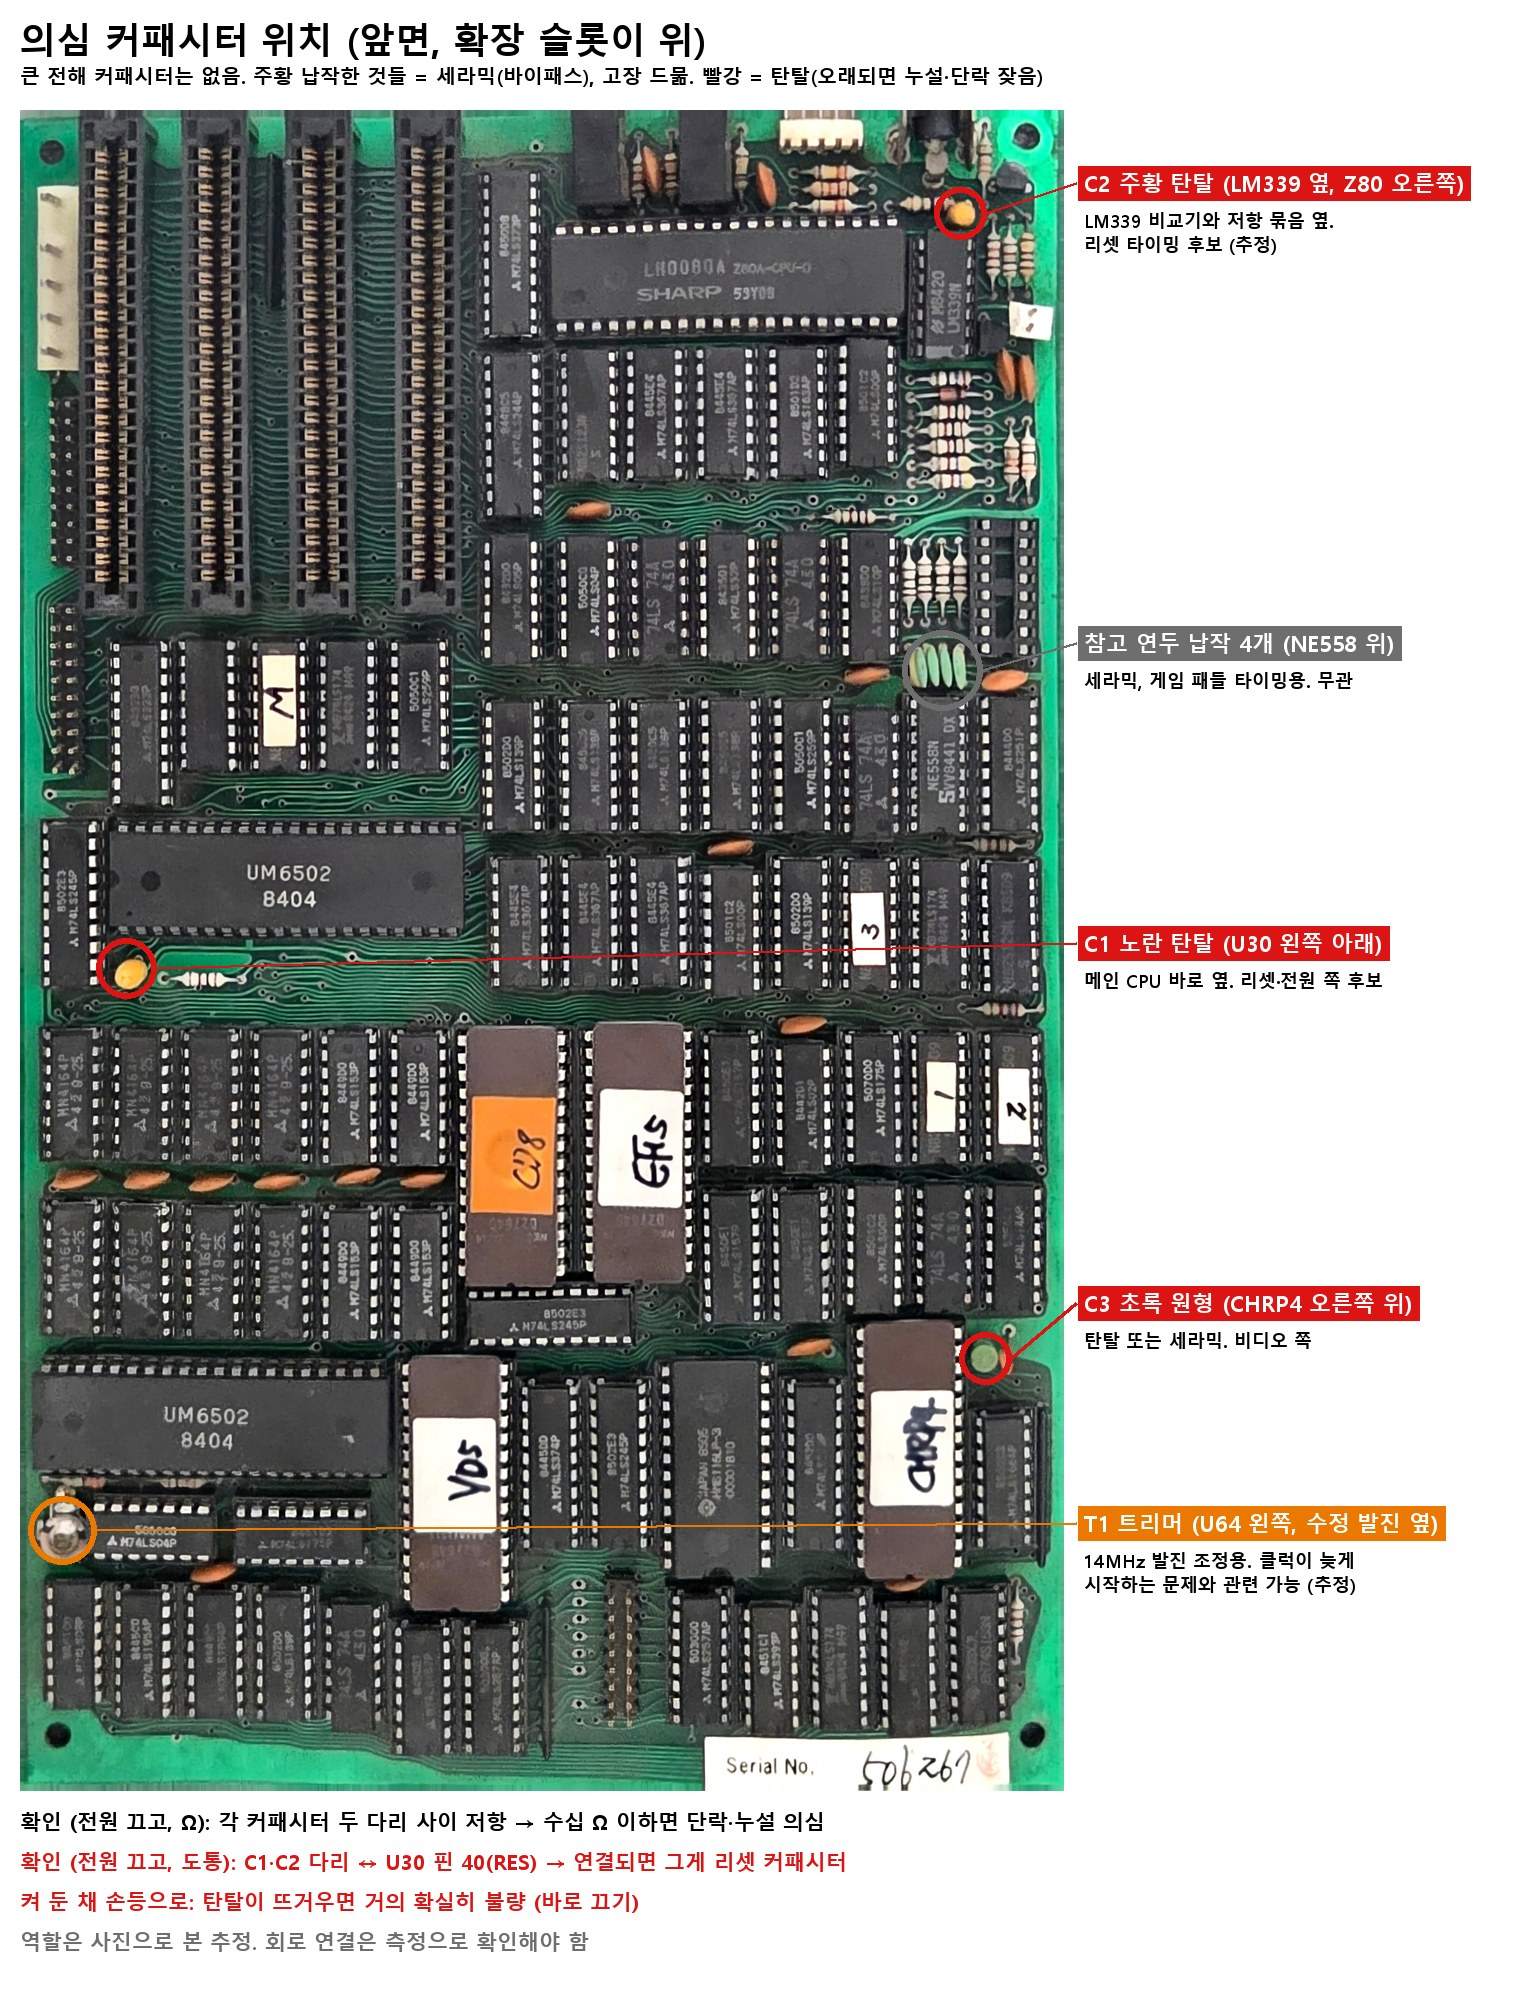
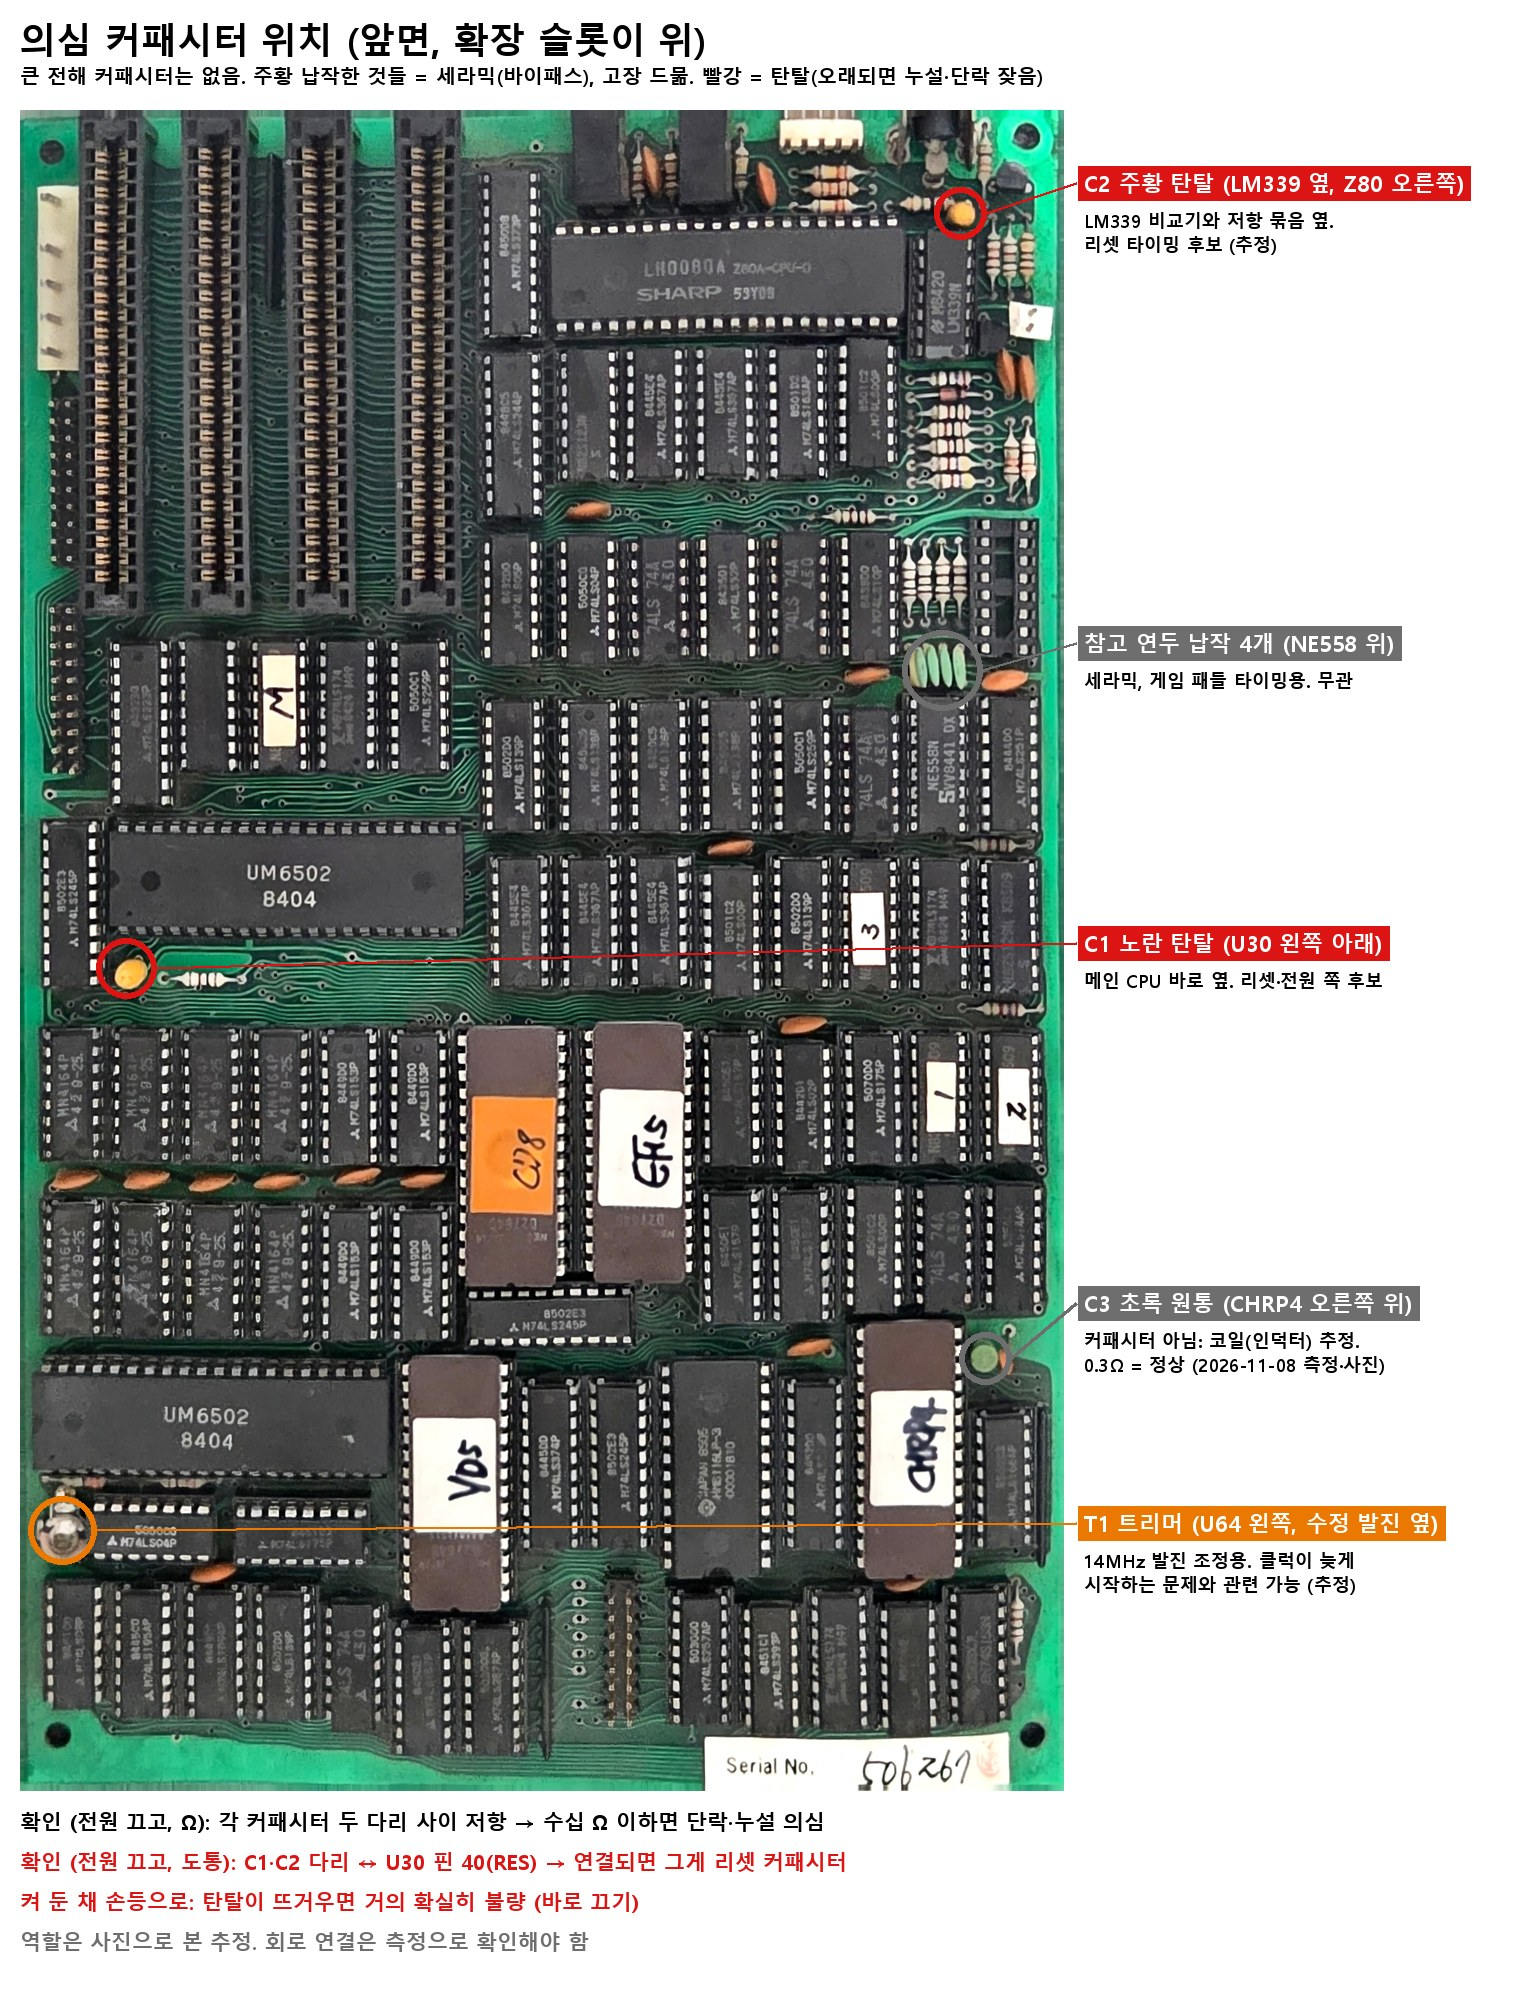
C3(CHRP4 옆 초록 원통)는 커패시터가 아닌 코일 추정 — 0.3Ω 정상, 사진 3장 추가(C3 앞·뒤, FDD 케이블 2개), 커패시터 그림 갱신

Changed region(s): [[0.6128, 0.6228, 0.9192, 0.6851]]

diff --git a/tools/annotate_capacitors.py b/tools/annotate_capacitors.py
@@ -19,7 +19,7 @@ RED, ORG, GRY, BLK = (220, 20, 20), (235, 120, 0), (110, 110, 110), (0, 0, 0)
 items = [  # (x, y, r, 색, 번호, 제목, 설명, 라벨 y)
     (106, 858, 30, RED, "C1", "노란 탄탈 (U30 왼쪽 아래)", "메인 CPU 바로 옆. 리셋·전원 쪽 후보", 820),
     (940, 103, 26, RED, "C2", "주황 탄탈 (LM339 옆, Z80 오른쪽)", "LM339 비교기와 저항 묶음 옆.\n리셋 타이밍 후보 (추정)", 60),
-    (965, 1248, 26, RED, "C3", "초록 원형 (CHRP4 오른쪽 위)", "탄탈 또는 세라믹. 비디오 쪽", 1180),
+    (965, 1248, 26, GRY, "C3", "초록 원통 (CHRP4 오른쪽 위)", "커패시터 아님: 코일(인덕터) 추정.\n0.3Ω = 정상 (2026-11-08 측정·사진)", 1180),
     (42, 1420, 34, ORG, "T1", "트리머 (U64 왼쪽, 수정 발진 옆)", "14MHz 발진 조정용. 클럭이 늦게\n시작하는 문제와 관련 가능 (추정)", 1400),
     (922, 560, 40, GRY, "참고", "연두 납작 4개 (NE558 위)", "세라믹, 게임 패들 타이밍용. 무관", 520),
 ]

diff --git a/docs/08-repair-log.md b/docs/08-repair-log.md
@@ -55,6 +55,10 @@
 - **켜 둔 채 기다리니 HART 화면이 나옴 (사용자)** — 끄고 다시 켜지 않고 시간이 지나서 시작됨 = **"늦게 시작"** 패턴. 후보 (추정): 켤 때 리셋이 오래 걸려 있다가 풀림, 클럭(발진)이 늦게 시작, 데워져야 붙는 접촉 불량. 걸린 시간, 그동안 화면·드라이브 상태 기록 필요. 다음 실패 때 기다리는 동안 U30 핀 40(RES)·37(클럭)을 재면 어느 쪽인지 구분됨.
 - **기다려도 안 나올 때 U50·U51이 뜨거움 (사용자)**. U50·U51 = 82S129 바이폴라 PROM (라벨 "1"·"2", 주소 디코드 → ROM 선택 등 추정). 바이폴라 PROM은 원래 꽤 따뜻한 칩(전류 약 100mA대)이라 뜨거움 자체는 정상일 수 있음 → 같은 종류 **U36(라벨 "3")과 온도 비교** 필요. U50·U51이 U36보다 확실히 더 뜨겁거나 손을 못 댈 정도면 이상. 이 칩들이 열 받으면 오동작 → CPU가 ROM을 못 읽음 → 까만 화면·드라이브 안 돎과 맞음 (추정). 확인: 정상 동작 때·안 켜질 때 온도 비교, 안 켜질 때 U30 핀 25(A15).
 - **2026-11-08 밤: "아예 안 켜짐" (사용자)** — 기다려도 안 켜지는 상태. Super Serial Card로 롬 덤프를 계획하던 중. 확인: 꽂은 카드 모두 빼기, 키보드 빼기, 끄고 몇 분 식힌 뒤 켜기, U30 핀 40·슬롯 핀 31 DC.
+- **C3 측정 (사용자, 전원 끔, 기판 위)**: 용량 776nF, 다리 단락으로 방전 확인 후 **두 다리 사이 0Ω**. 옆 주황 세라믹도 0Ω.
+    - **사진 확인 (사용자, 2026-11-08 밤)**: [앞면](../photos/zoom/front/20261108_212556_C3-green-choke_CHRP4-right.jpg), [뒷면](../photos/zoom/back/20261108_212622_back-bottom-edge_C3-area.jpg). C3는 **다리 두 개 달린 초록 원통형 부품 = 코일(인덕터·초크) 추정**, 커패시터 아님. 코일은 전선을 감은 것이라 **0.3Ω이 정상** → **C3 고장 아님 (판단)**. 옆 주황 세라믹이 0.3Ω으로 나온 것은 프로브가 코일 다리와 같은 점에 닿았거나 두 부품이 같은 패드를 공유하는 배치로 추정 (확인하려면 세라믹 각 다리 ↔ 슬롯 26 도통). 용량 776nF는 코일을 커패시터 모드로 잰 값이라 의미 없음.
+    - **재측정 (사용자, HIOKI 멀티미터)**: C3 = −0.0mV·**0.3Ω**, C3 옆 주황 커패시터 = −0.0mV·**0.3Ω** → 둘 다 0.3Ω (프로브끼리 맞댄 값 수준). 두 커패시터가 **같은 두 선에 나란히** 걸려 있고 그 두 선이 사실상 붙어 있음 → 커패시터 하나의 고장보다 **두 다리가 같은 선(GND끼리 등)** 이거나 그 두 선 사이 단락. 아래 "정정"은 이전 측정(다른 부품을 잰 것으로 추정).
+    - **정정 (사용자)**: C3 = **0.0Ω**, 바로 옆 노란(주황) 커패시터 = **O.L** → 둘은 같은 선이 아님. **C3 두 다리가 0Ω으로 붙어 있음** = C3 단락 또는 두 다리가 같은 선(GND끼리 등). 확인: C3 각 다리 ↔ 슬롯 26(GND)·25(+5V)·34(−5V)·33(−12V)·50(+12V) 도통, 각 전원 핀 ↔ 26 저항. → 둘이 같은 두 선에 걸려 있고 그 두 선이 0Ω으로 붙어 있다는 뜻. 판단 보류: 측정 확인 필요(표시가 "0"인지 "O.L"인지, 다른 세라믹·저항과 비교), 각 다리 ↔ 슬롯 26(GND)·25(+5V) 도통. +5V↔GND가 0Ω이면 전원 단락인데 보드가 5.029V로 동작했으므로 가능성 낮음 (추정).
 - **의심 커패시터 정리 (사진 판독, 2026-11-08)**: 보드에 큰 전해 커패시터 없음. 주황 납작 = 세라믹 바이패스(고장 드묾). 탄탈 후보 C1(노란색, U30 왼쪽 아래 저항 옆), C2(주황, LM339 옆·Z80 오른쪽), C3(초록 원형, CHRP4 오른쪽 위 — 탄탈인지 세라믹인지 미확인), 발진 트리머 T1(U64 왼쪽). 역할은 추정. 그림 [`analysis/capacitor_suspects.jpg`](../analysis/capacitor_suspects.jpg). 확인: 전원 끄고 각 다리 사이 Ω, C1·C2 다리 ↔ U30 핀 40 도통, 켠 채 탄탈 온도.
 - **안 켜진 상태인데 U30 핀 40(RES) = 5V (사용자, 2026-11-08 밤)** → 이번에는 리셋이 풀려 있는데도 안 켜짐 = 앞의 "RES 0V" 경우와 다른 상태. 다음: 같은 상태에서 핀 37(클럭) Hz, 핀 25(A15)·핀 7(SYNC) DC.
 - **같은 상태(키보드·드라이브 뺌)에서 U30 핀 37(클럭) = 0Hz (사용자)** → 정상 1.024MHz. **CPU 클럭이 안 들어옴 (측정 확인)**. 클럭 경로(11-07 확인): 타이밍 → U33(74LS367) 핀 4 → 핀 5 → R1(1kΩ 풀다운) → U30 핀 37. 핀 37이 0Hz면 U33 출력이 꺼졌거나(핀 1 /G1이 High → 출력 high-Z → R1이 0V로 당김), U33 입력(핀 4)부터 클럭이 없거나, 발진(14M/7M) 자체가 멈춤. 다음: 슬롯 핀 36(7M) Hz, U33 핀 4 Hz, U33 핀 1 DC, U33 핀 5 Hz. U33 /G1이 다른 회로(Z80 전환 등)에서 제어될 가능성도 있음 (추정).

diff --git a/photos/README.md b/photos/README.md
@@ -173,6 +173,10 @@ photos/
 | --- | --- |
 | case/20261108_171356_J1-power-connector_wired.jpg | 보드 J1에 꽂힌 SMPS 5가닥 (검정·빨강·파랑·초록·주황), 아래에 SMPS 라벨 "DAE HAN ENGINEERING". 전압 표시는 analysis/power_reference.jpg |
 
+| case/20261108_171641_FDD-cables-J2-J3_in-case.jpg | 케이스 안 보드, J2·J3에 꽂힌 FDD 리본 케이블 2개(파란 BERG 커넥터), 오른쪽 SMPS 라벨 (보드가 180° 돌아간 방향) |
+| zoom/front/20261108_212556_C3-green-choke_CHRP4-right.jpg | CHRP4 오른쪽 위 초록 원통 부품(C3, 코일 추정)과 옆 주황 세라믹을 벌려서 찍음 |
+| zoom/back/20261108_212622_back-bottom-edge_C3-area.jpg | 같은 부분 뒷면 (보드 아래쪽 가장자리) |
+
 ## 키보드 `keyboard/` 추가 (2026-11-08)
 
 | 파일 | 내용 |
